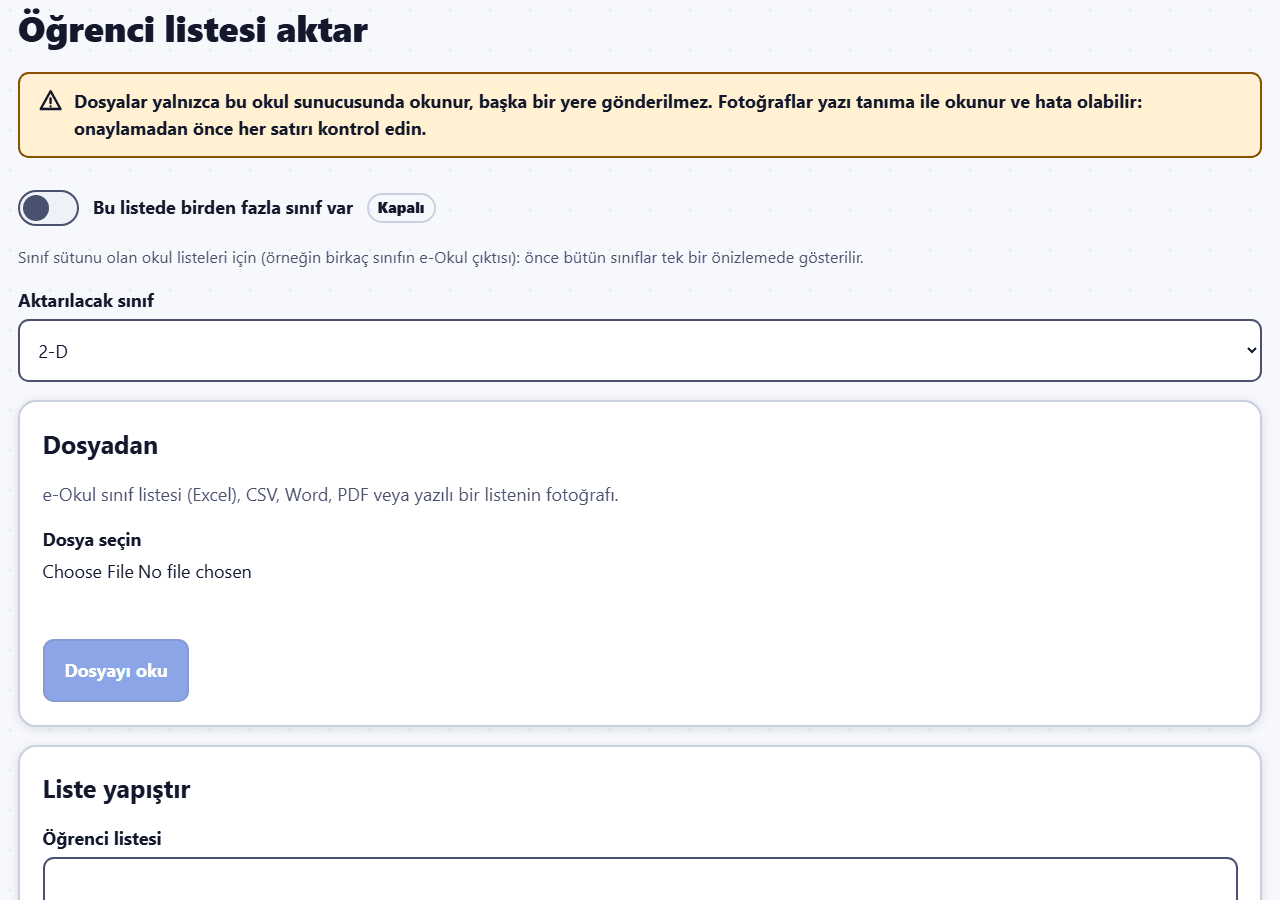
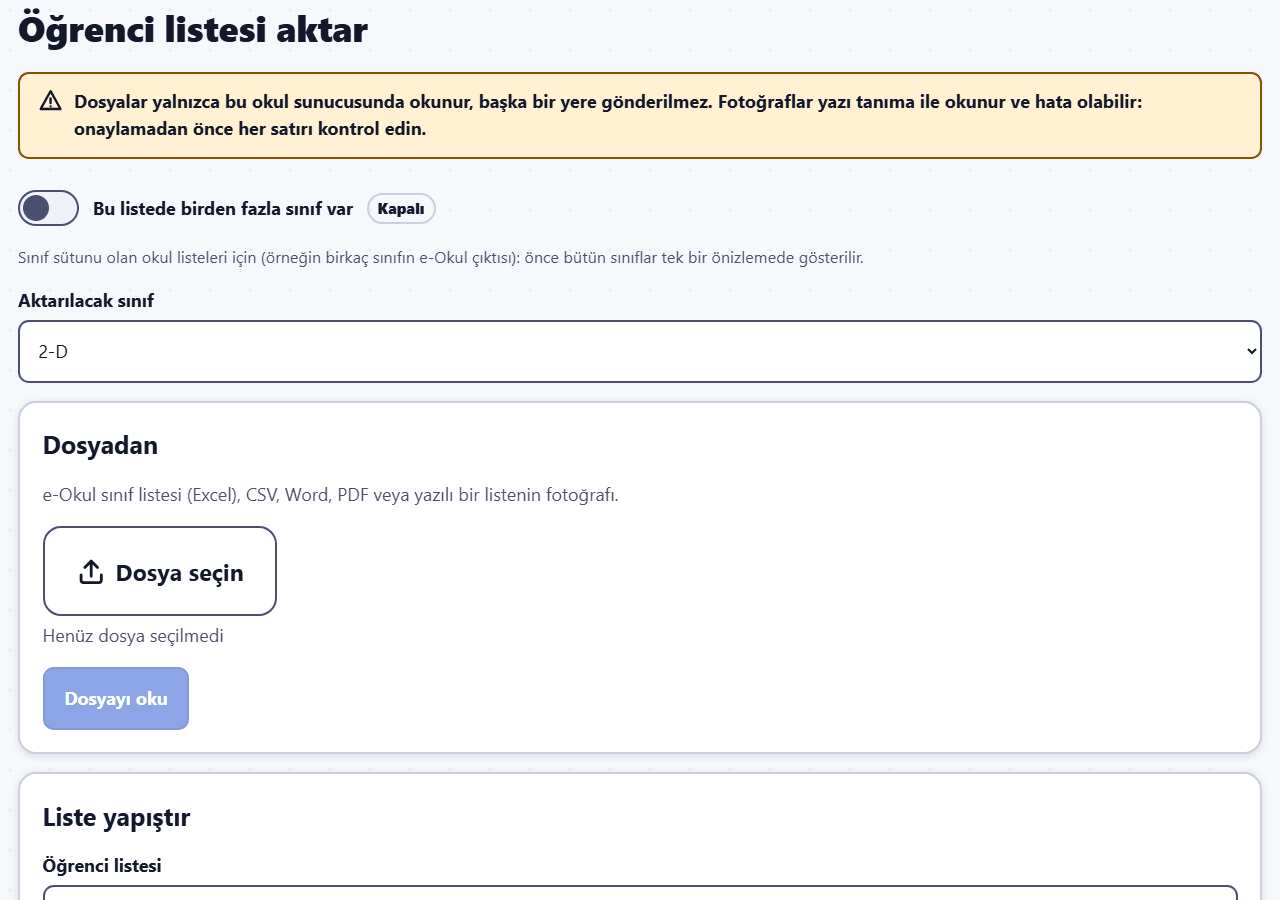
S23-verify: guide screenshots after S19b, S21 and S23b; Assistant and Assistant connections shots
The docs-screenshots spec now photographs the teacher's Assistant page (a
scripted local model on 127.0.0.1, one read tool and a change waiting on its
card) and Admin -> AI tools -> Assistant connections (one tested fictional
connection); everything it switches on is undone in finally. ai-tools-admin
starts at the Setup checklist again, now that Assistant connections come first.
Both new pictures are in the teacher and admin guides (EN, TR).

Regenerated only the pictures whose content changed: teacher menu and top bar
(Assistant), setup hub, profile (spacing), import (file picker), student
statistics, AI tools profile (numbered steps), classroom and classroom card
(cards fit the Students box), student goals (Change my words). Pictures that
differed only by random avatars, clock time or a pixel of scroll are kept.

Changed region(s): [[0.0, 0.5911, 1.0, 0.9956], [0.0938, 0.2178, 0.3438, 0.2489], [0.9375, 0.9644, 0.9688, 0.9956]]

diff --git a/e2e/docs-screenshots.spec.ts b/e2e/docs-screenshots.spec.ts
@@ -19,6 +19,10 @@ import { expect, test, type Browser, type Page } from '@playwright/test';
 import { translate, type Locale, type MessageKey } from '../src/shared/i18n/index.ts';
 // Every dictionary registered, staff strings included (S23a, D-182).
 import '../tests/messages.ts';
+// The assistant chat area dictionary (S19b) is not in tests/messages.ts; importing it registers it.
+import '../src/shared/i18n/areas/assistantChat.ts';
+import { FAKE_KEYS, FakeProvider } from '../tests/ai-fake.ts';
+import { lastToolResult, script } from '../tests/assistant-fake.ts';
 import { api, ensurePin, login, PASSWORD, PIN, studentLinkUrl } from './helpers.ts';
 
 const IMG_ROOT = path.resolve(import.meta.dirname, '../docs/guides/img');
@@ -107,6 +111,9 @@ for (const lang of ['en', 'tr'] as const) {
     expect((await api(tp, 'PUT', `/api/teacher/classes/${ctx3A.classId}/language`, classLang)).status).toBe(200);
     expect((await api(ap, 'PUT', '/api/admin/speakers/settings', { boardLanguage: lang })).status).toBe(200);
     let aiToolsOn = false;
+    let fake: FakeProvider | null = null;
+    let connectionId: string | null = null;
+    let chatId: string | null = null;
 
     try {
       // ---------------------------------------------------------------- teacher area
@@ -209,7 +216,8 @@ for (const lang of ['en', 'tr'] as const) {
         await ap.goto('/admin/ai-tools');
         await expect(ap.getByTestId('admin-ai-tools')).toBeVisible();
         await ap.waitForTimeout(600);
-        await shot(ap, lang, 'ai-tools-admin', { from: 'main h1' });
+        // The page starts with Assistant connections (S19a/b); this picture shows the AI apps part.
+        await shot(ap, lang, 'ai-tools-admin', { from: '[data-testid="ai-checklist"]' });
         await tp.goto('/teacher/profile');
         await expect(tp.getByTestId('ai-tools')).toBeVisible();
         await shot(tp, lang, 'ai-tools-profile', { from: '[data-testid="ai-tools"]' });
@@ -223,6 +231,59 @@ for (const lang of ['en', 'tr'] as const) {
         await tp.goto(`/oauth/authorize?${q.toString()}`);
         await expect(tp.getByTestId('oauth-consent')).toBeVisible();
         await shot(tp, lang, 'oauth-consent', { from: 'main h1' });
+      }
+
+      // ---------------------------------------------------------------- Assistant connections and the Assistant page (S19a/b)
+      // A scripted local model on 127.0.0.1 (tests/assistant-fake.ts), never a real provider; removed in `finally`.
+      {
+        fake = new FakeProvider();
+        const base = `${await fake.start()}/v1`;
+        const name = lang === 'tr' ? 'Okulun modeli' : 'School model';
+        const conn = await api(ap, 'POST', '/api/admin/ai-connections', { type: 'openaiCompatible', name, baseUrl: base, localNetwork: true, models: ['school-model'], apiKey: FAKE_KEYS.compatible, kvkkConfirmed: true });
+        expect(conn.status).toBe(200);
+        connectionId = conn.body.id as string;
+        expect((await api(ap, 'PUT', '/api/admin/ai-connection-settings', { defaultConnectionId: connectionId, defaultModel: 'school-model' })).status).toBe(200);
+        expect((await api(ap, 'PUT', '/api/admin/assistant-chat', { enabled: true })).status).toBe(200);
+        await ap.goto('/admin/ai-tools');
+        await expect(ap.getByTestId('ai-connections')).toContainText(name);
+        await expect(ap.getByTestId('assistant-chat-admin').getByRole('switch')).toBeChecked();
+        // Test the model (two tiny requests without school data, answered by the fake), as an administrator would.
+        await ap.getByTestId('ai-connections').getByRole('button', { name: /school-model/u }).click();
+        await expect(ap.getByTestId('ai-conn-test-result')).toBeVisible();
+        await ap.waitForTimeout(400);
+        await shot(ap, lang, 'ai-connections', { from: '[data-testid="ai-connections"]' });
+
+        const text =
+          lang === 'tr'
+            ? { ask: 'Bu hafta hangi ödevlerin teslimi var?', look: 'Sınıflarınıza bakıyorum.', answer: (n: number) => `${n} sınıfınız var. Bu hafta teslimi olan ödev yok.`, answerRe: /^\d+ sınıfınız var\. Bu hafta teslimi olan ödev yok\.$/u, set: '3-A için okuma ödevi ver: 3. bölümü oku.', hw: 'Okuma: 3. bölüm' }
+            : { ask: 'Which homework is due this week in my classes?', look: 'Let me look at your classes.', answer: (n: number) => `You teach ${n} classes. Nothing is due this week.`, answerRe: /^You teach \d+ classes\. Nothing is due this week\.$/u, set: 'Set reading homework for 3-A: read chapter 3.', hw: 'Reading: chapter 3' };
+        script(fake, [
+          (body) => {
+            const last = body.messages.at(-1);
+            if (last.role === 'user' && last.content.includes(text.ask)) return { text: text.look, calls: [{ name: 'list_my_classes', args: {} }] };
+            if (last.role === 'tool' && Array.isArray(lastToolResult(body)?.contexts)) return { text: text.answer(lastToolResult(body).contexts.length) };
+            return { calls: [{ name: 'create_homework', args: { contextId: ctx3A.id, title: text.hw, dueOn: '2026-11-20' } }] };
+          },
+        ]);
+        await tp.goto('/teacher/ai-assistant');
+        await tp.getByTestId('assistant-new-chat').click();
+        await expect(tp.getByTestId('assistant-suggestions')).toBeVisible();
+        chatId = new URL(tp.url()).searchParams.get('chat');
+        const composer = tp.getByLabel(T('assistantChat.composer' as MessageKey));
+        await composer.fill(text.ask);
+        await tp.getByTestId('assistant-send').click();
+        await expect(tp.getByTestId('assistant-messages').getByText(text.answerRe)).toBeVisible();
+        await expect(tp.getByTestId('assistant-activity').first()).toBeVisible();
+        await expect(tp.getByTestId('assistant-stop')).toBeHidden();
+        await composer.fill(text.set);
+        await tp.getByTestId('assistant-send').click();
+        // The change waits on its card; it is never confirmed here (the chat is deleted in `finally`).
+        await expect(tp.getByTestId('assistant-change-card').last()).toHaveAttribute('data-state', 'pending');
+        // A taller window, so the whole waiting card is in the picture.
+        await tp.setViewportSize({ width: 1280, height: 1250 });
+        await tp.waitForTimeout(400);
+        await shot(tp, lang, 'assistant', { from: 'main h1' });
+        await tp.setViewportSize({ width: 1280, height: 900 });
       }
 
       await tp.goto('/teacher/import');
@@ -423,6 +484,13 @@ for (const lang of ['en', 'tr'] as const) {
       }
     } finally {
       // AI tools are off in the demo school; switching them off also ends the example connection (D-160).
+      if (chatId) await api(tp, 'DELETE', `/api/teacher/assistant-chat/chats/${chatId}`);
+      if (connectionId) {
+        await api(ap, 'PUT', '/api/admin/assistant-chat', { enabled: false });
+        await api(ap, 'PUT', '/api/admin/ai-connection-settings', { defaultConnectionId: null, defaultModel: null });
+        await api(ap, 'DELETE', `/api/admin/ai-connections/${connectionId}`);
+      }
+      await fake?.close();
       if (aiToolsOn) await api(ap, 'PUT', '/api/admin/ai-tools', { mcpEnabled: false });
       await api(tp, 'POST', '/api/auth/pin/unlock', { pin: PIN });
       await api(tp, 'PUT', `/api/teacher/classes/${ctx3A.classId}/language`, { mainLanguage: 'en', secondLanguageEnabled: false });

diff --git a/docs/guides/tr/teacher.md b/docs/guides/tr/teacher.md
@@ -359,6 +359,8 @@ Sayfanın adresi sınıfı, öğrenciyi, görünümü ve süreyi her zaman içer
 
 ## Asistan
 
+![Kartında bir değişikliğin onay beklediği Asistan sayfası](../img/tr/assistant.png)
+
 **Asistan** (öğretmen menüsü → Bugün), sınıflarınız hakkında bir yapay zekâ modeliyle sohbettir: hangi ödevlerin teslimi geldiğini sorun, bir raporu özetletin, ders konularını planlayın ya da veliler için bir not taslağı hazırlatın. Yalnızca bir yönetici açtıysa ve okulun yapay zekâ araçları açıksa çalışır; değilse sayfa nedenini söyler. Sınıf bilgisayarında önce PIN sorulur; asistan hiçbir zaman sınıf ekranında ya da bir öğrencinin sayfasında yer almaz.
 
 - **Yeni sohbet** bir sohbet başlatır; soldaki listede (telefonda: **Tüm sohbetler**) **Sohbetlerde ara**, **Arşivdeki sohbetleri göster** ve kaldığınız yerden sürdürebileceğiniz eski sohbetler bulunur. Sohbetin içinde: **Yeniden adlandır**, **Arşive kaldır** (ya da arşivden çıkar) ve **Sohbeti sil**. **Model**, okulunuzun (izin varsa sizin) kurduğu bağlantılardan birini seçer.

diff --git a/docs/guides/en/teacher.md b/docs/guides/en/teacher.md
@@ -359,6 +359,8 @@ On the **Notifications** page:
 
 ## Assistant
 
+![The Assistant page with a change waiting on its card](../img/en/assistant.png)
+
 **Assistant** (teacher menu → Today) is a chat with an AI model about your classes: ask what homework is due, have a report summarised, plan lesson topics or draft a note for parents. It works only when an administrator has switched it on and the school's AI tools are on; otherwise the page says why. On a classroom computer the PIN is asked first, and the assistant is never on the classroom screen or a student's page.
 
 - **New chat** starts a chat; the list on the left (on a phone: **All chats**) has **Search chats**, **Show archived chats** and your earlier chats to continue. In a chat: **Rename**, **Archive** (or bring it back) and **Delete chat**. **Model** chooses one of the connections your school (or you, if allowed) set up.

diff --git a/docs/guides/tr/admin.md b/docs/guides/tr/admin.md
@@ -115,6 +115,8 @@ Teknik ayrıntıların hepsi (her renk, sınırlar, çizim kuralları, örnek bi
 
 ## Asistan bağlantıları
 
+![Denenmiş bir okul bağlantısıyla Asistan bağlantıları](../img/tr/ai-connections.png)
+
 **Yapay zekâ araçları** → **Asistan bağlantıları**, Sınıf Pusulası içindeki asistan için okulun bir yapay zekâ sağlayıcısındaki kendi hesabını bağladığınız yerdir. Siz bir bağlantı eklemeden hiçbir şey bağlanmaz. Bu bölüm **Yapay zekâ araçları** sayfasının ilk bölümüdür; yapay zekâ uygulamalarının (MCP) ayarlarının üstündedir.
 
 Asistan sohbetini açtığınızda öğretmenler bu bağlantıları **Asistan** sayfalarında kullanır (aşağıdaki [Asistan sohbeti](#asistan-sohbeti) bölümüne bakın).

diff --git a/docs/guides/en/admin.md b/docs/guides/en/admin.md
@@ -115,6 +115,8 @@ The full technical description (every colour, the limits, the drawing rules, a w
 
 ## Assistant connections
 
+![Assistant connections with one tested school connection](../img/en/ai-connections.png)
+
 **AI tools** → **Assistant connections** is where you connect the school's own account with an AI provider, for the assistant inside Class Compass. Nothing is connected until you add a connection. It is the first part of the **AI tools** page, above the settings for AI apps (MCP).
 
 Teachers use these connections on their **Assistant** page once you switch the assistant chat on (see [Assistant chat](#assistant-chat) below).
